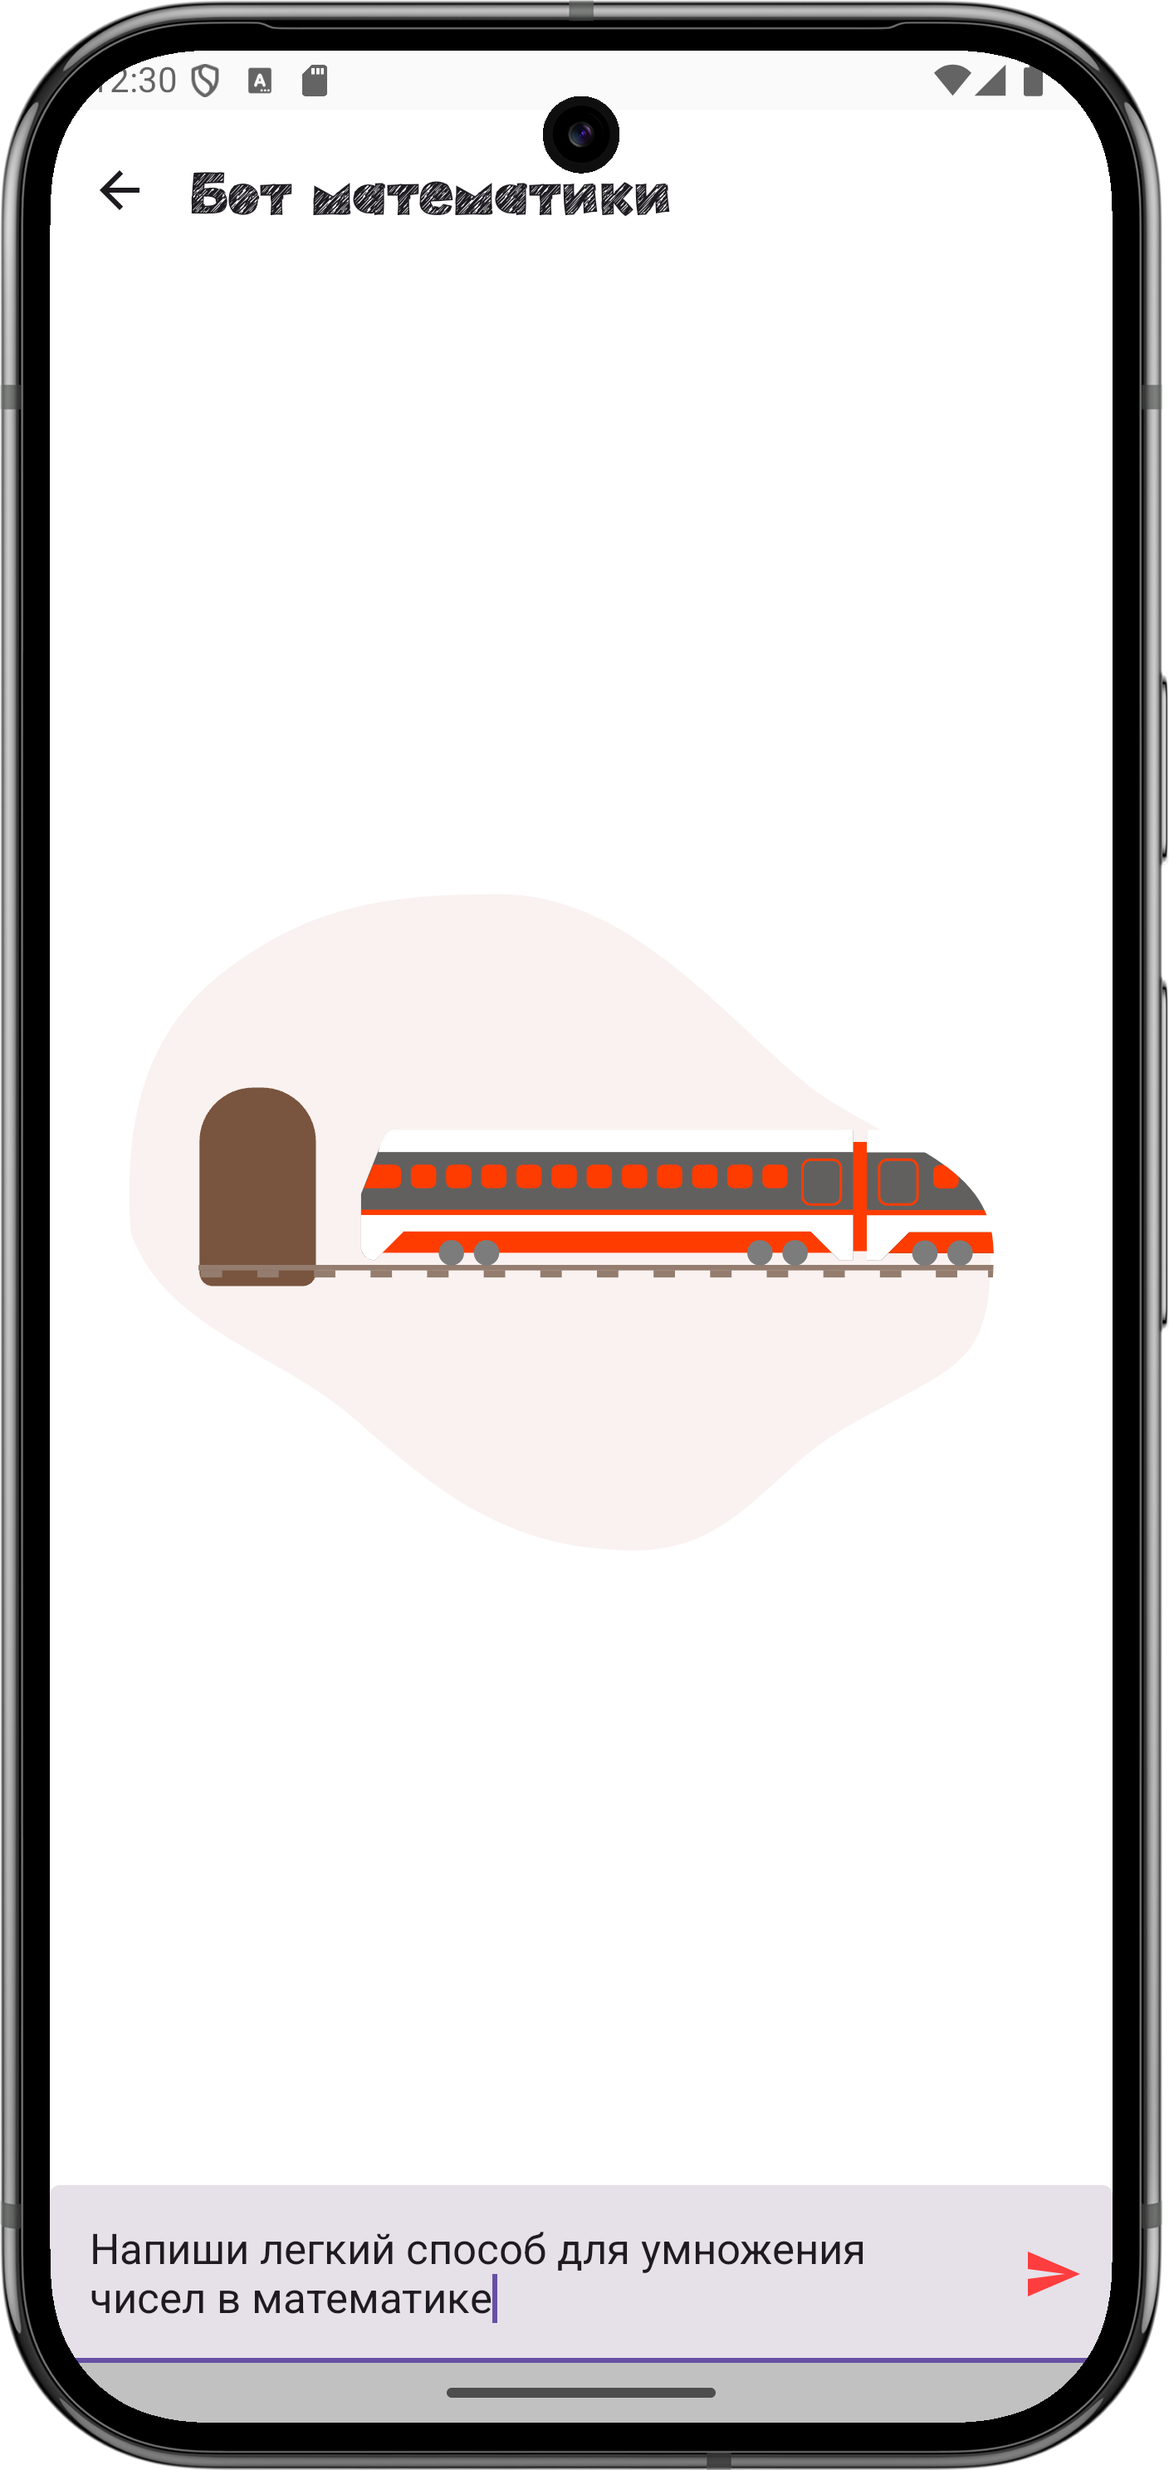
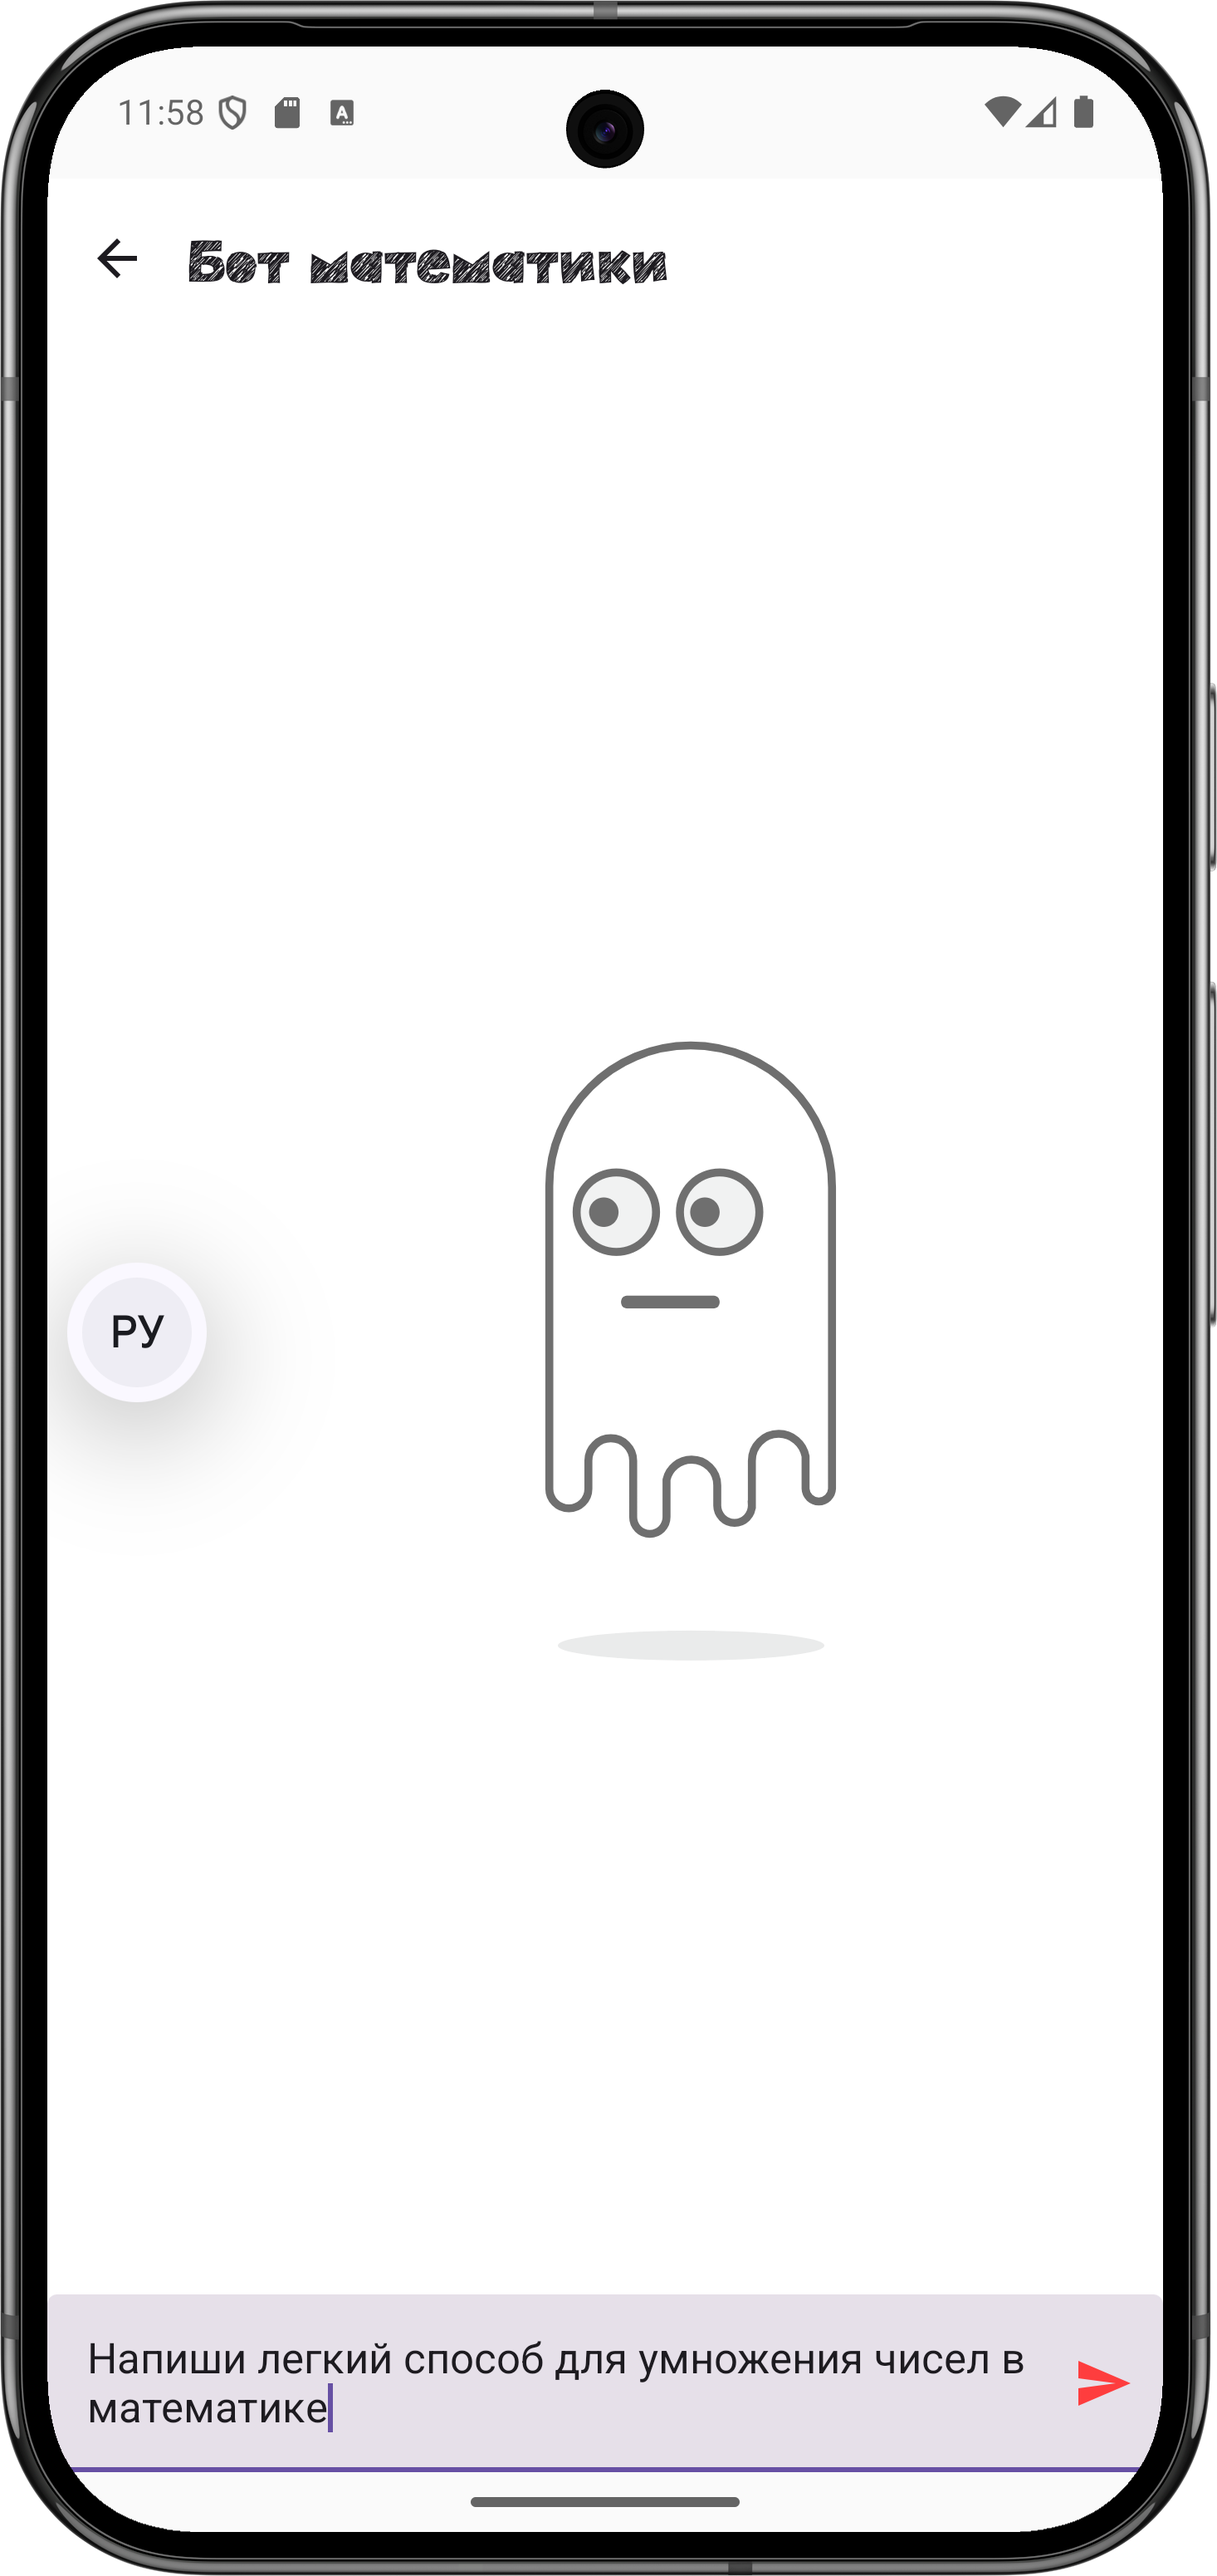
global fix

Changed region(s): [[0.0, 0.0, 1.0, 1.0]]

diff --git a/app/src/main/java/com/example/diplomv2/screens/MainScreen.kt b/app/src/main/java/com/example/diplomv2/screens/MainScreen.kt
@@ -69,51 +69,49 @@ fun MainScreen(
 
         items(1) {
             CardTask(
-                "Математические рельсы",
-                "Решай задачки и собирай золотые звёздочки! Чем больше решишь — тем длиннее твой поезд!",
+                "Математическая игра",
+                "Решай задачки и получай золотые звёздочки! Чем больше решишь — тем круче твой результат!",
                 onClick = { navigation.navigate(Screens.MathRails.route) },
                 icon = R.drawable.train_rails_fz82f7vze0gd
             )
         }
         items(1) {
             CardTask(
-                "Скоростной экспресс",
-                "Успей решить максимум примеров, пока не упёрся в станцию! Тик-так, время пошло!",
+                "Быстрые задачки",
+                "Решай примеры как можно быстрее! Счётчик времени уже пошёл — успеешь набрать рекорд?",
                 onClick = {
                     expressQuizViewModel.resetGame()
-
                     navigation.navigate(Screens.ExpressChallenge.route)
-                          },
+                },
                 icon = R.drawable.express_qpl6mb6w73hk
             )
         }
         items(1) {
             CardTask(
-                "Геометрическая станция",
-                "Узнавай фигуры и собирай пазлы! Круглые колёса, квадратные окошки.",
+                "Фигурки и формы",
+                "Узнавай геометрические фигуры и собирай весёлые картинки из форм!",
                 onClick = {
                     shapeGameViewModel.resetGame()
                     navigation.navigate(Screens.GeometryStation.route)
-                          },
+                },
                 icon = R.drawable.geometry_3wedqpqf6cj4
             )
         }
         item {
             CardTask(
                 "Обучайка",
-                "Освой правила и секреты математики! Теория, примеры, подсказки — всё в одном месте.",
+                "Освой правила и секреты математики! Теория, примеры и полезные подсказки ждут тебя.",
                 onClick = { navigation.navigate(Screens.Learning.route) },
                 icon = R.drawable.learning_923qwd5bl1wh
             )
         }
         items(1) {
             Text(
-                "Новые вагончики с заданиями уже в пути! \uD83D\uDE82✨",
+                "Скоро появятся новые задания! ✨",
                 fontSize = 20.sp,
                 textAlign = TextAlign.Center,
                 color = Color.Gray
             )
-
         }
     }
 }

diff --git a/app/src/main/java/com/example/diplomv2/screens/StatisticsScreen.kt b/app/src/main/java/com/example/diplomv2/screens/StatisticsScreen.kt
@@ -51,7 +51,7 @@ fun StatisticsScreen(
 
         item {
             Text(
-                text = "🚄 Статистика 'Скоростной экспресс'",
+                text = "🚄 Статистика 'Быстрые задачки'",
                 fontSize = 20.sp,
                 color = Color.Black
             )
@@ -82,7 +82,7 @@ fun StatisticsScreen(
 
         item {
             Text(
-                text = "🔷 Статистика 'Геометрическая станция'",
+                text = "🔷 Статистика 'Фигурки и формы'",
                 fontSize = 20.sp,
                 color = Color.Black
             )

diff --git a/app/src/main/java/com/example/diplomv2/screens/AiScreen.kt b/app/src/main/java/com/example/diplomv2/screens/AiScreen.kt
@@ -88,7 +88,7 @@ fun AiScreen(navController: NavHostController, aiBotViewModel: AiBotViewModel) {
         ) {
             if (listMessages.isEmpty()) {
                 items(1) {
-                        val composition by rememberLottieComposition(LottieCompositionSpec.RawRes(R.raw.train))
+                        val composition by rememberLottieComposition(LottieCompositionSpec.RawRes(R.raw.empty))
                         LottieAnimation(
                             composition = composition,
                             iterations = LottieConstants.IterateForever,

diff --git a/app/src/main/java/com/example/diplomv2/data/Screens.kt b/app/src/main/java/com/example/diplomv2/data/Screens.kt
@@ -17,15 +17,12 @@ enum class Screens(val route: String) {
     Statistics("statistics"),
     // Обучение
     Learning("learning"),
-
     // Экраны обучения
     LearnAddition("learn_addition"),
     LearnSubtraction("learn_subtraction"),
     LearnMultiplication("learn_multiplication"),
     LearnDivision("learn_division"),
     LearnShapes("learn_shapes"),
-
-
     // ИИ
     Ai("ai")
 }

diff --git a/app/src/main/java/com/example/diplomv2/ui/theme/CustomUI.kt b/app/src/main/java/com/example/diplomv2/ui/theme/CustomUI.kt
@@ -40,7 +40,6 @@ fun CustomText(textText: String, modifier: Modifier, textStyle: TextStyle) {
         text = textText,
         style = textStyle,
         modifier = modifier,
-
     )
 }
 
